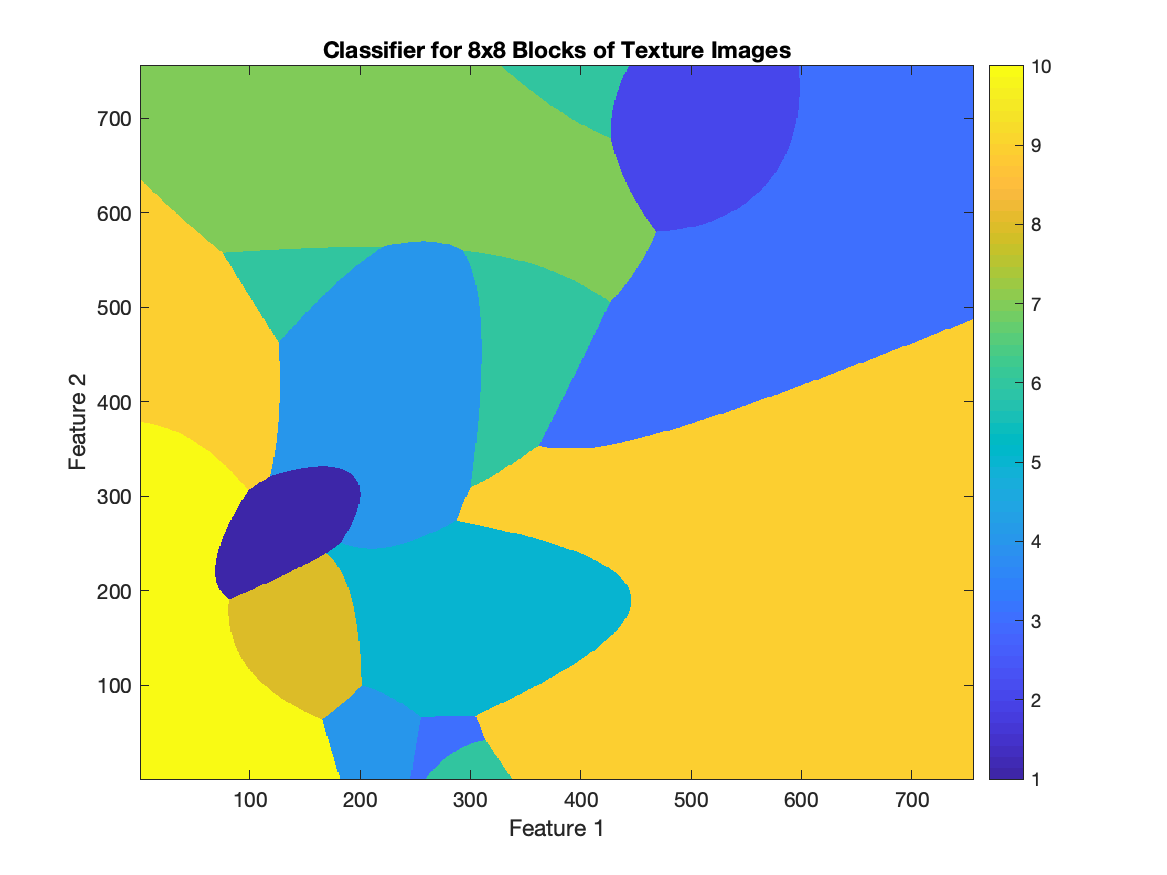
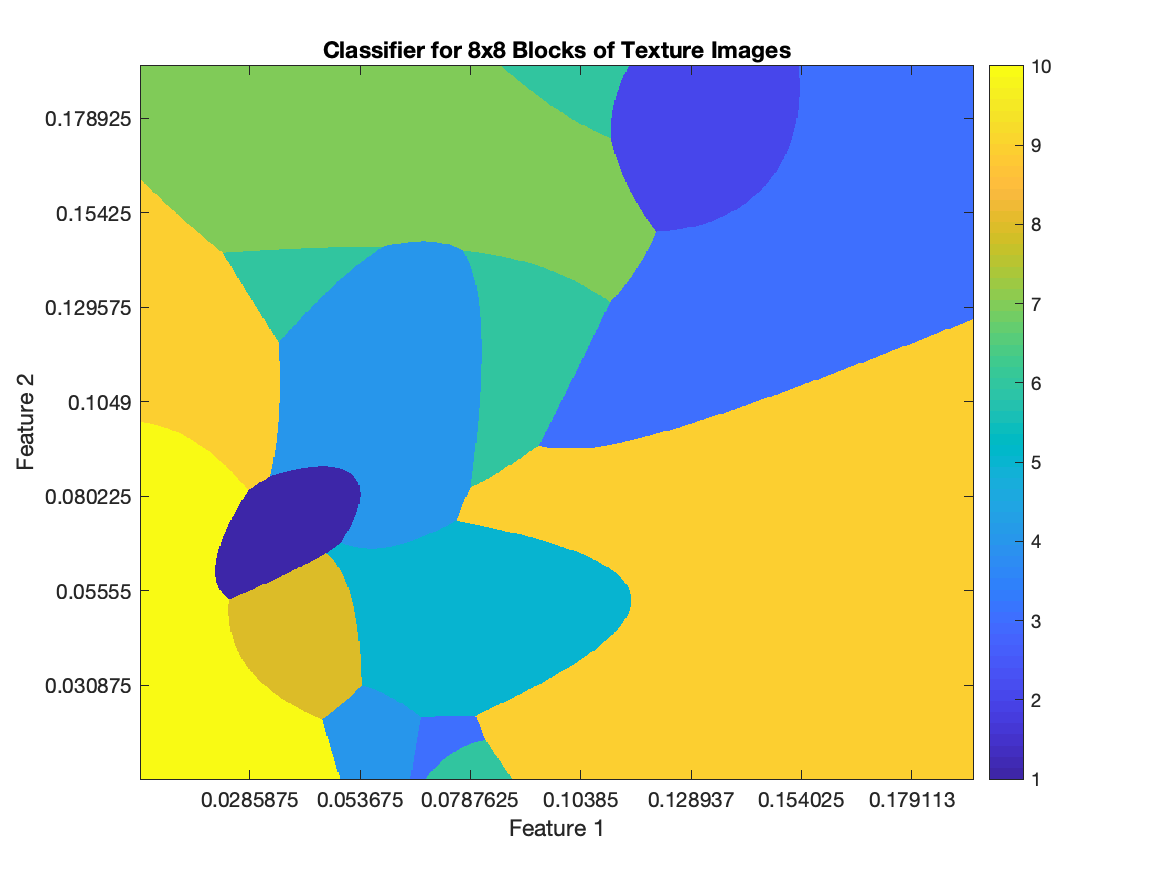
Plot fixes

diff --git a/Lab 3/kmeans.m b/Lab 3/kmeans.m
@@ -25,15 +25,24 @@ function [classifier] = kmeans(K, data)
         iter = iter + 1;
     end
     
-    figure;
+    kmean_fig = figure('units','normalized','outerposition',[0 0 0.75 0.75]);
+    legend_data = cell(K*2,1);
     for classIdx = 1:K
+        randcolor = [rand rand rand];
         current_data = data(classifier == classIdx,:);
-        scatter(current_data(:,1),current_data(:,2),50,'filled');
+        scatter(current_data(:,1),current_data(:,2),65,randcolor,'filled');
         hold on; 
+        scatter(prototypes(classIdx,1),prototypes(classIdx,2),200,...
+            randcolor,'*');
+        hold on; 
+        legend_data{classIdx*2-1} = sprintf('Class %d',classIdx);
+        legend_data{classIdx*2} = sprintf('Mean for class %d',classIdx);
     end
     
     xlabel('Feature 1');
     ylabel('Feature 2');
-    legend();
+    title('K-Means Classification for 32x32 Image Data');
+    legend(legend_data, 'Location', 'northwest');
+    saveas(kmean_fig,"Kmean_plot.png");
 end
 

diff --git a/Lab 3/lab3.m b/Lab 3/lab3.m
@@ -57,8 +57,17 @@ axis on;
 saveas(im_cl_sg_fig, "comp_img.png");
 
 % Abstract class image
-xtick = num2str(linspace(0.0035, 0.2042, 6)');
-ytick = num2str(linspace(0.0062, 0.2036, 6)');
+numOfTicks = 9;
+xtick_num = linspace(0.0035, 0.2042, numOfTicks);
+ytick_num = linspace(0.0062, 0.2036, numOfTicks);
+
+xtick = cell(numOfTicks-2, 1);
+ytick = cell(numOfTicks-2, 1);
+
+for i = 2:(numOfTicks-1) 
+    xtick{i-1} = xtick_num(i);
+    ytick{i-1} = ytick_num(i);
+end
 
 abstract_art = figure;
 imagesc(classifier_f8);
@@ -67,8 +76,11 @@ ax.YDir = 'normal';
 title("Classifier for 8x8 Blocks of Texture Images");
 xlabel("Feature 1");
 ylabel("Feature 2");
-% xticklabels(xtick);
-% yticklabels(ytick);
+xticklabels(xtick);
+yticklabels(ytick);
 colorbar();
 
 saveas(abstract_art, "abstract_art.png");
+
+%% K Means
+kmeans(10,f32(1:2,:)');
